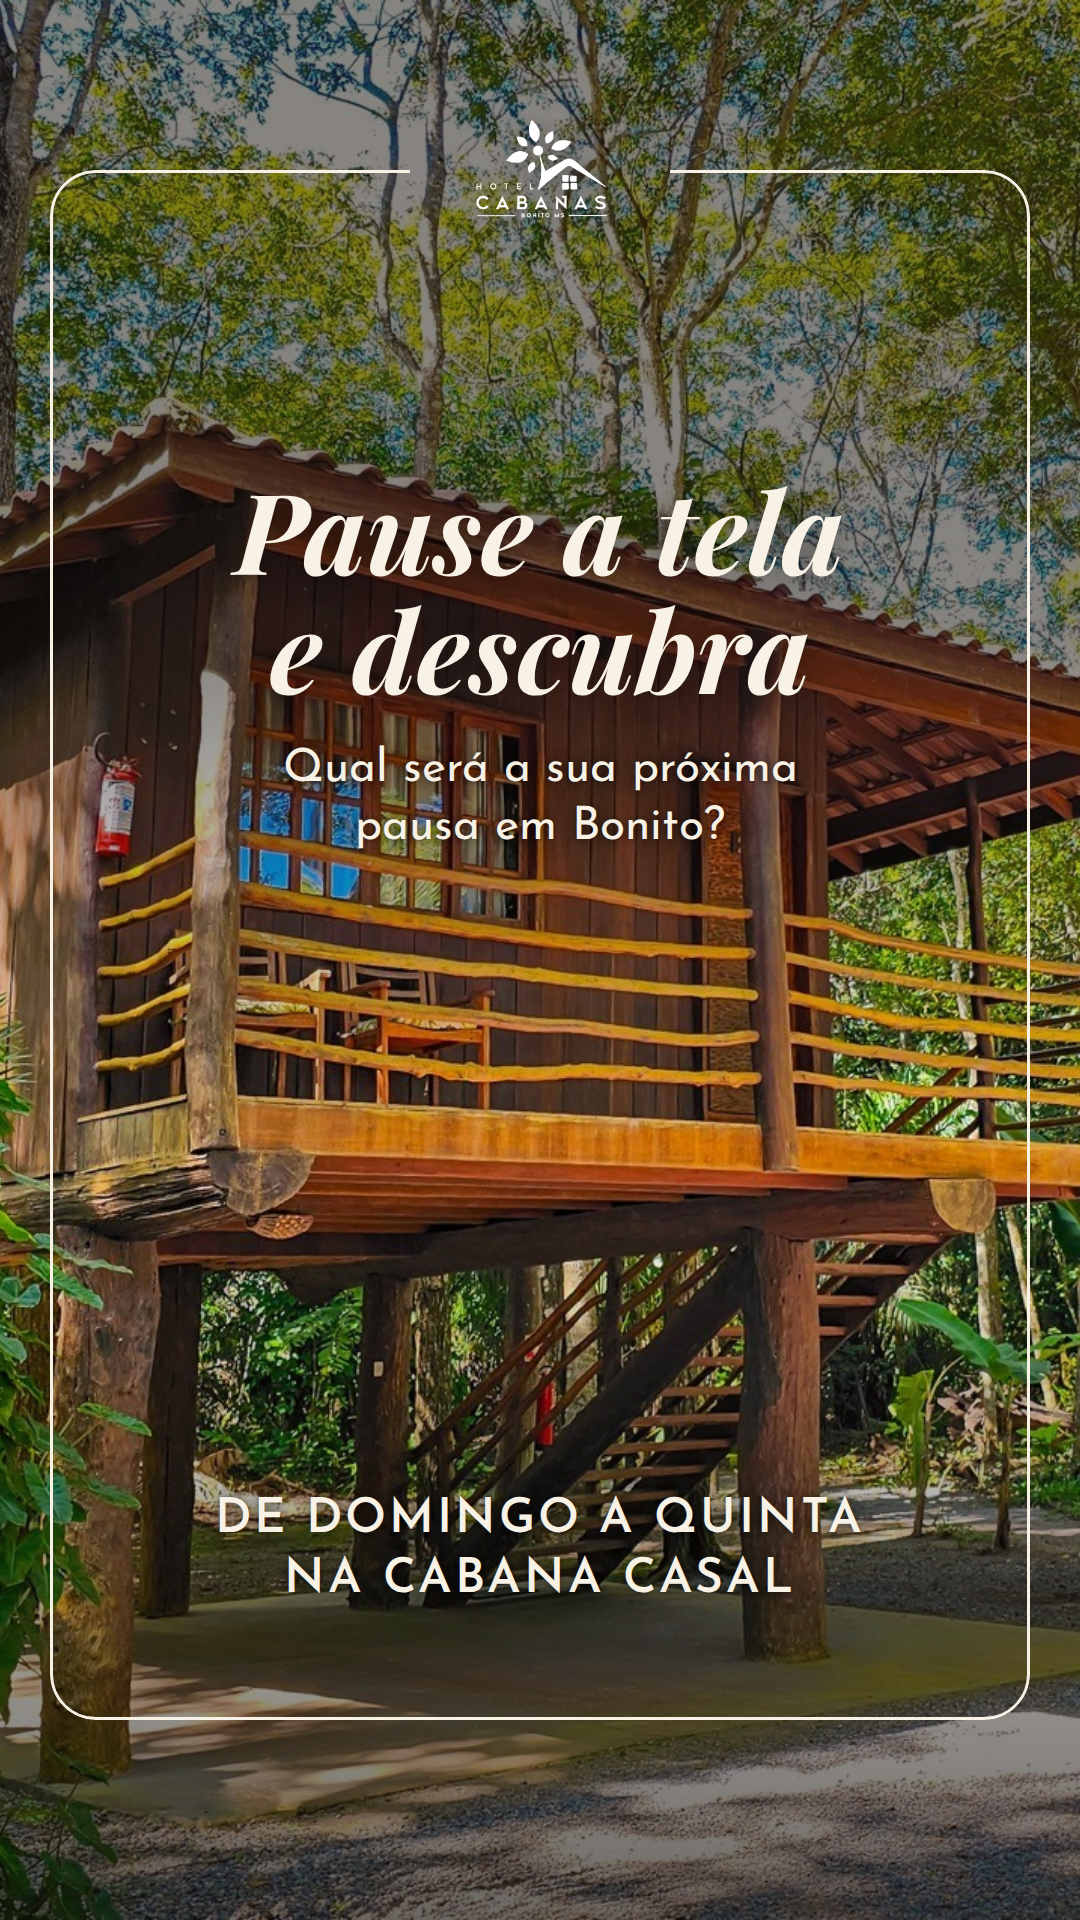
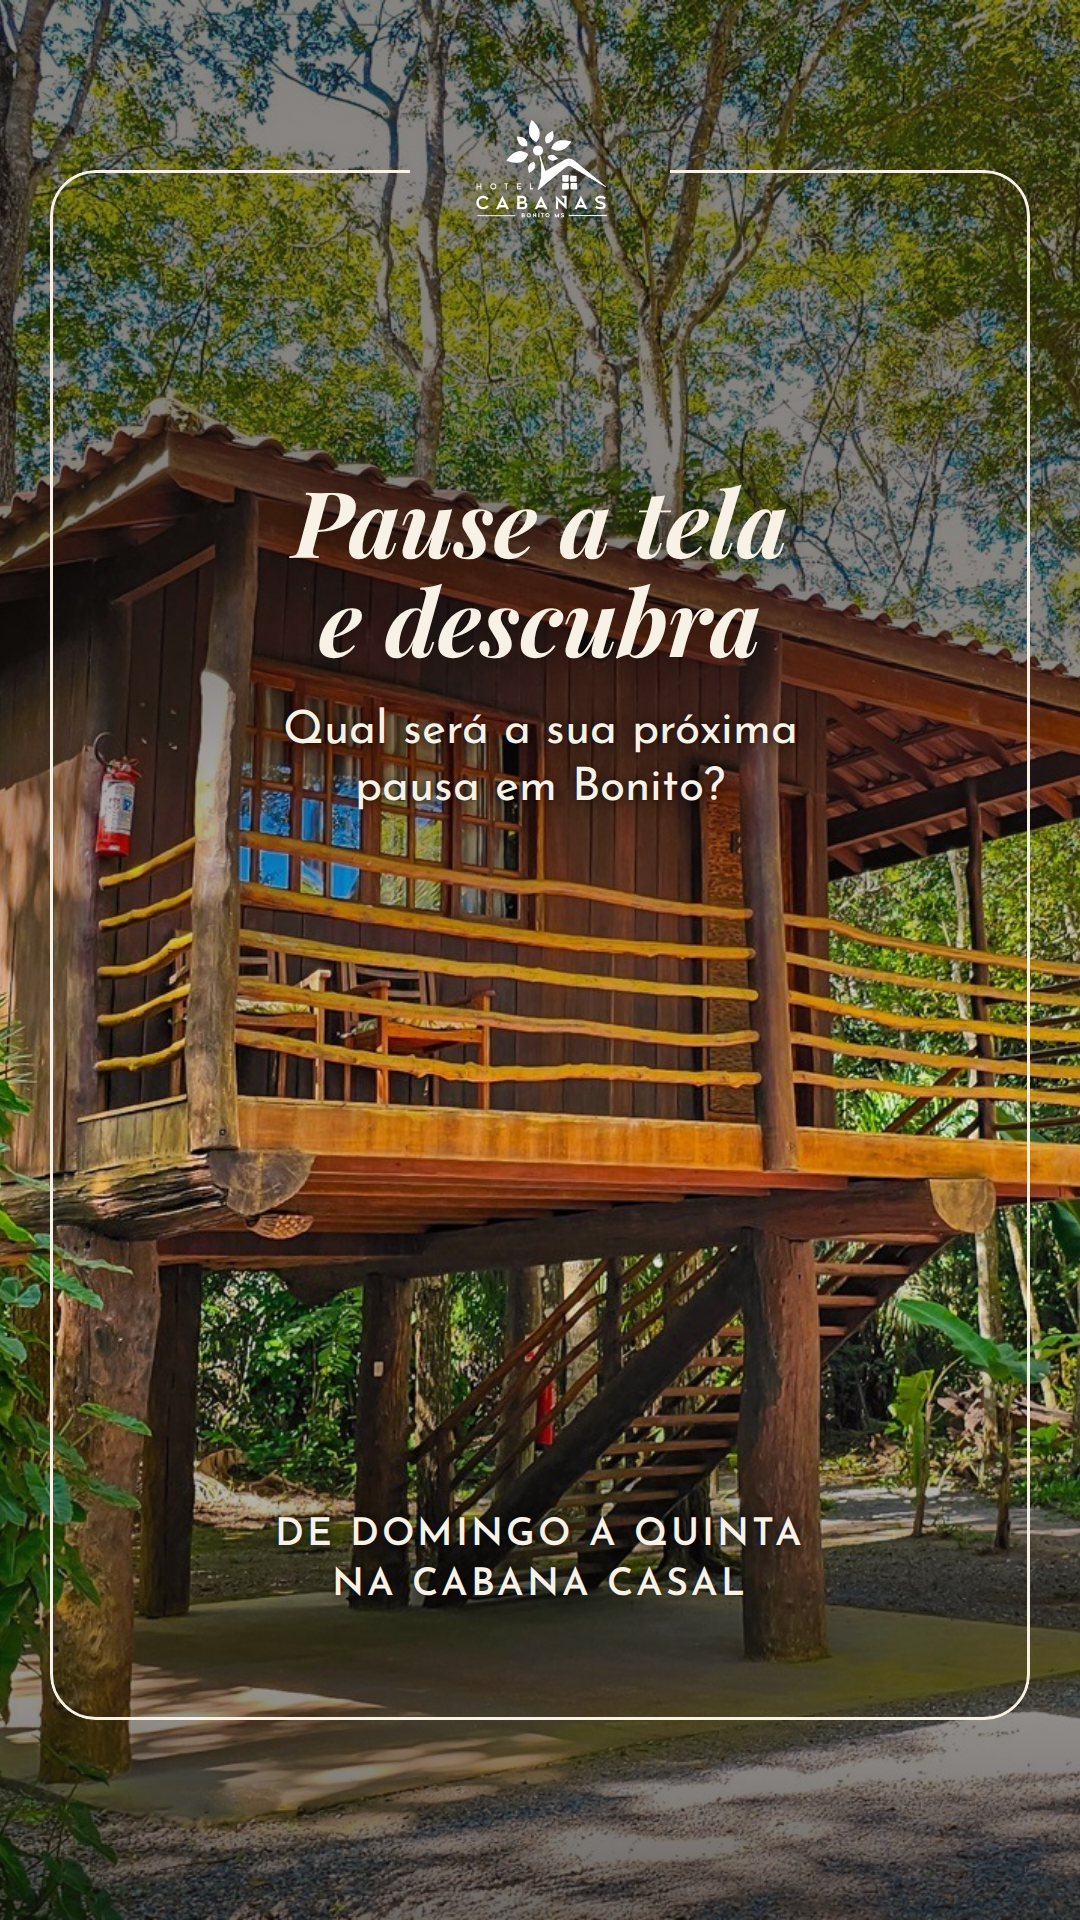
Teste 'Pause a tela': título e legenda menores (pedido do dono)
Claude-Session: https://claude.ai/code/session_01GffBmxQFJnfaKwiJFV7qgT

Changed region(s): [[0.2139, 0.25, 0.7944, 0.4375], [0.1833, 0.7812, 0.7944, 0.8438]]

diff --git a/design/pecas/2026-10-instagram/TESTE-MODELO-PAUSE/PAUSE-1.html b/design/pecas/2026-10-instagram/TESTE-MODELO-PAUSE/PAUSE-1.html
@@ -12,11 +12,11 @@
 .selo img { height: 118px; display: block; filter: drop-shadow(0 2px 8px rgba(0,0,0,.35)); }
 .corte { position: absolute; left: 50%; top: 168px; width: 200px; height: 8px; transform: translateX(-50%); background: transparent; }
 .texto { position: absolute; left: 90px; right: 90px; top: 470px; text-align: center; }
-.texto h1 { font-family: "Playfair Display", serif; font-style: italic; font-weight: 700; font-size: 112px; line-height: 1.06; text-shadow: 0 3px 24px rgba(0,0,0,.35); }
+.texto h1 { font-family: "Playfair Display", serif; font-style: italic; font-weight: 700; font-size: 92px; line-height: 1.08; text-shadow: 0 3px 24px rgba(0,0,0,.35); }
 .texto p { margin-top: 34px; font-family: "Josefin Sans", sans-serif; font-weight: 400; font-size: 46px; line-height: 1.25; text-shadow: 0 2px 16px rgba(0,0,0,.6), 0 0 4px rgba(0,0,0,.3); }
 .pe { position: absolute; inset: auto 0 0 0; height: 760px; background: linear-gradient(to top, rgba(20,14,8,.62), rgba(20,14,8,.3) 55%, rgba(20,14,8,0)); }
 .etiqueta { position: absolute; left: 120px; right: 120px; bottom: 310px; text-align: center; }
-.etiqueta span { font-family: "Josefin Sans", sans-serif; font-weight: 600; font-size: 48px; line-height: 1.25; letter-spacing: .06em; text-transform: uppercase; color: var(--creme);
+.etiqueta span { font-family: "Josefin Sans", sans-serif; font-weight: 600; font-size: 38px; line-height: 1.3; letter-spacing: .08em; text-transform: uppercase; color: var(--creme);
   text-shadow: 0 2px 16px rgba(0,0,0,.6), 0 0 4px rgba(0,0,0,.35); }
 </style></head>
 <body><div class="peca story">

diff --git a/design/pecas/2026-10-instagram/TESTE-MODELO-PAUSE/PAUSE-2.html b/design/pecas/2026-10-instagram/TESTE-MODELO-PAUSE/PAUSE-2.html
@@ -12,11 +12,11 @@
 .selo img { height: 118px; display: block; filter: drop-shadow(0 2px 8px rgba(0,0,0,.35)); }
 .corte { position: absolute; left: 50%; top: 168px; width: 200px; height: 8px; transform: translateX(-50%); background: transparent; }
 .texto { position: absolute; left: 90px; right: 90px; top: 470px; text-align: center; }
-.texto h1 { font-family: "Playfair Display", serif; font-style: italic; font-weight: 700; font-size: 112px; line-height: 1.06; text-shadow: 0 3px 24px rgba(0,0,0,.35); }
+.texto h1 { font-family: "Playfair Display", serif; font-style: italic; font-weight: 700; font-size: 92px; line-height: 1.08; text-shadow: 0 3px 24px rgba(0,0,0,.35); }
 .texto p { margin-top: 34px; font-family: "Josefin Sans", sans-serif; font-weight: 400; font-size: 46px; line-height: 1.25; text-shadow: 0 2px 16px rgba(0,0,0,.6), 0 0 4px rgba(0,0,0,.3); }
 .pe { position: absolute; inset: auto 0 0 0; height: 760px; background: linear-gradient(to top, rgba(20,14,8,.62), rgba(20,14,8,.3) 55%, rgba(20,14,8,0)); }
 .etiqueta { position: absolute; left: 120px; right: 120px; bottom: 310px; text-align: center; }
-.etiqueta span { font-family: "Josefin Sans", sans-serif; font-weight: 600; font-size: 48px; line-height: 1.25; letter-spacing: .06em; text-transform: uppercase; color: var(--creme);
+.etiqueta span { font-family: "Josefin Sans", sans-serif; font-weight: 600; font-size: 38px; line-height: 1.3; letter-spacing: .08em; text-transform: uppercase; color: var(--creme);
   text-shadow: 0 2px 16px rgba(0,0,0,.6), 0 0 4px rgba(0,0,0,.35); }
 </style></head>
 <body><div class="peca story">

diff --git a/design/pecas/2026-10-instagram/TESTE-MODELO-PAUSE/PAUSE-3.html b/design/pecas/2026-10-instagram/TESTE-MODELO-PAUSE/PAUSE-3.html
@@ -12,11 +12,11 @@
 .selo img { height: 118px; display: block; filter: drop-shadow(0 2px 8px rgba(0,0,0,.35)); }
 .corte { position: absolute; left: 50%; top: 168px; width: 200px; height: 8px; transform: translateX(-50%); background: transparent; }
 .texto { position: absolute; left: 90px; right: 90px; top: 470px; text-align: center; }
-.texto h1 { font-family: "Playfair Display", serif; font-style: italic; font-weight: 700; font-size: 112px; line-height: 1.06; text-shadow: 0 3px 24px rgba(0,0,0,.35); }
+.texto h1 { font-family: "Playfair Display", serif; font-style: italic; font-weight: 700; font-size: 92px; line-height: 1.08; text-shadow: 0 3px 24px rgba(0,0,0,.35); }
 .texto p { margin-top: 34px; font-family: "Josefin Sans", sans-serif; font-weight: 400; font-size: 46px; line-height: 1.25; text-shadow: 0 2px 16px rgba(0,0,0,.6), 0 0 4px rgba(0,0,0,.3); }
 .pe { position: absolute; inset: auto 0 0 0; height: 760px; background: linear-gradient(to top, rgba(20,14,8,.62), rgba(20,14,8,.3) 55%, rgba(20,14,8,0)); }
 .etiqueta { position: absolute; left: 120px; right: 120px; bottom: 310px; text-align: center; }
-.etiqueta span { font-family: "Josefin Sans", sans-serif; font-weight: 600; font-size: 48px; line-height: 1.25; letter-spacing: .06em; text-transform: uppercase; color: var(--creme);
+.etiqueta span { font-family: "Josefin Sans", sans-serif; font-weight: 600; font-size: 38px; line-height: 1.3; letter-spacing: .08em; text-transform: uppercase; color: var(--creme);
   text-shadow: 0 2px 16px rgba(0,0,0,.6), 0 0 4px rgba(0,0,0,.35); }
 </style></head>
 <body><div class="peca story">

diff --git a/design/pecas/2026-10-instagram/TESTE-MODELO-PAUSE/gera-pause.py b/design/pecas/2026-10-instagram/TESTE-MODELO-PAUSE/gera-pause.py
@@ -25,11 +25,11 @@ MODELO = """<!doctype html>
 .selo img {{ height: 118px; display: block; filter: drop-shadow(0 2px 8px rgba(0,0,0,.35)); }}
 .corte {{ position: absolute; left: 50%; top: 168px; width: 200px; height: 8px; transform: translateX(-50%); background: transparent; }}
 .texto {{ position: absolute; left: 90px; right: 90px; top: {topo}px; text-align: center; }}
-.texto h1 {{ font-family: "Playfair Display", serif; font-style: italic; font-weight: 700; font-size: 112px; line-height: 1.06; text-shadow: 0 3px 24px rgba(0,0,0,.35); }}
+.texto h1 {{ font-family: "Playfair Display", serif; font-style: italic; font-weight: 700; font-size: 92px; line-height: 1.08; text-shadow: 0 3px 24px rgba(0,0,0,.35); }}
 .texto p {{ margin-top: 34px; font-family: "Josefin Sans", sans-serif; font-weight: 400; font-size: 46px; line-height: 1.25; text-shadow: 0 2px 16px rgba(0,0,0,.6), 0 0 4px rgba(0,0,0,.3); }}
 .pe {{ position: absolute; inset: auto 0 0 0; height: 760px; background: linear-gradient(to top, rgba(20,14,8,.62), rgba(20,14,8,.3) 55%, rgba(20,14,8,0)); }}
 .etiqueta {{ position: absolute; left: 120px; right: 120px; bottom: 310px; text-align: center; }}
-.etiqueta span {{ font-family: "Josefin Sans", sans-serif; font-weight: 600; font-size: 48px; line-height: 1.25; letter-spacing: .06em; text-transform: uppercase; color: var(--creme);
+.etiqueta span {{ font-family: "Josefin Sans", sans-serif; font-weight: 600; font-size: 38px; line-height: 1.3; letter-spacing: .08em; text-transform: uppercase; color: var(--creme);
   text-shadow: 0 2px 16px rgba(0,0,0,.6), 0 0 4px rgba(0,0,0,.35); }}
 </style></head>
 <body><div class="peca story">
